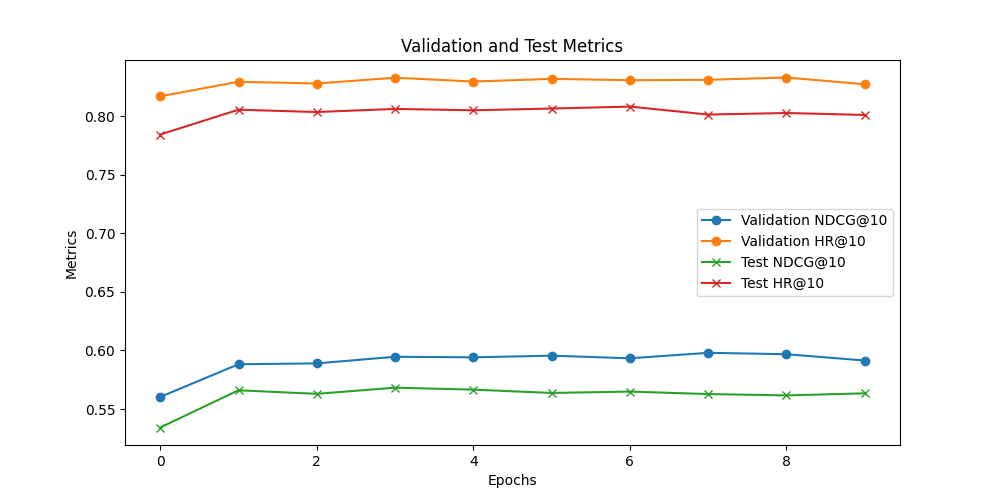
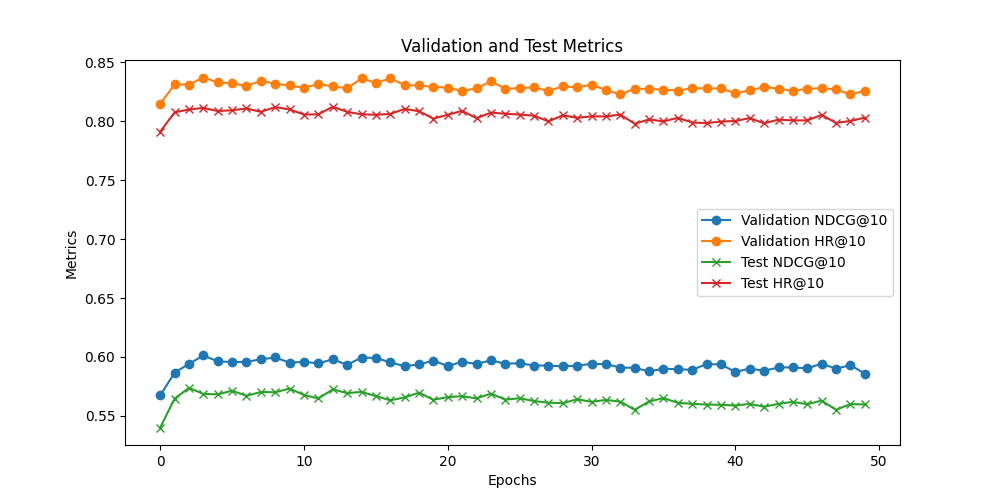
Add plotting functionality for training loss and validation/test metrics

diff --git a/main.py b/main.py
@@ -47,11 +47,19 @@ def plot_curves(train_losses,val_ndcg_list,val_hr_list,test_ndcg_list,test_hr_li
     plt.savefig(f'plots/{args.model}_{args.dataset}_training_loss.png')
 
     # Plotting the validation and test metrics (NDCG@10 and HR@10)
+    epochs = range(20, (len(val_ndcg_list) + 1) * 20, 20)  # epochs in steps of 20
+    
     plt.figure(figsize=(10, 5))
-    plt.plot(val_ndcg_list, label='Validation NDCG@10',marker='o')
-    plt.plot(val_hr_list, label='Validation HR@10',marker='o')
-    plt.plot(test_ndcg_list, label='Test NDCG@10',marker='x')
-    plt.plot(test_hr_list, label='Test HR@10',marker='x')
+    plt.plot(epochs, val_ndcg_list, label='Validation NDCG@10', marker='o')
+    plt.plot(epochs, val_hr_list, label='Validation HR@10', marker='o')
+    plt.plot(epochs, test_ndcg_list, label='Test NDCG@10', marker='x')
+    plt.plot(epochs, test_hr_list, label='Test HR@10', marker='x')
+    
+    # plt.figure(figsize=(10, 5))
+    # plt.plot(val_ndcg_list, label='Validation NDCG@10',marker='o')
+    # plt.plot(val_hr_list, label='Validation HR@10',marker='o')
+    # plt.plot(test_ndcg_list, label='Test NDCG@10',marker='x')
+    # plt.plot(test_hr_list, label='Test HR@10',marker='x')
     plt.xlabel('Epochs')
     plt.ylabel('Metrics')
     plt.title('Validation and Test Metrics')
@@ -88,7 +96,7 @@ if __name__ == '__main__':
         
     # model = SASRec(usernum, itemnum, args).to(args.device) # no ReLU activation in original SASRec implementation?
     # model = GRURec(usernum, itemnum, args).to(args.device)
-    # model = LMURec(usernum, itemnum, args).to(args.device)
+    # model = LMURec(usernum, itemnum, args).to(args.device) 
     
     
     user_embedding_matrix = model.user_emb.weight
